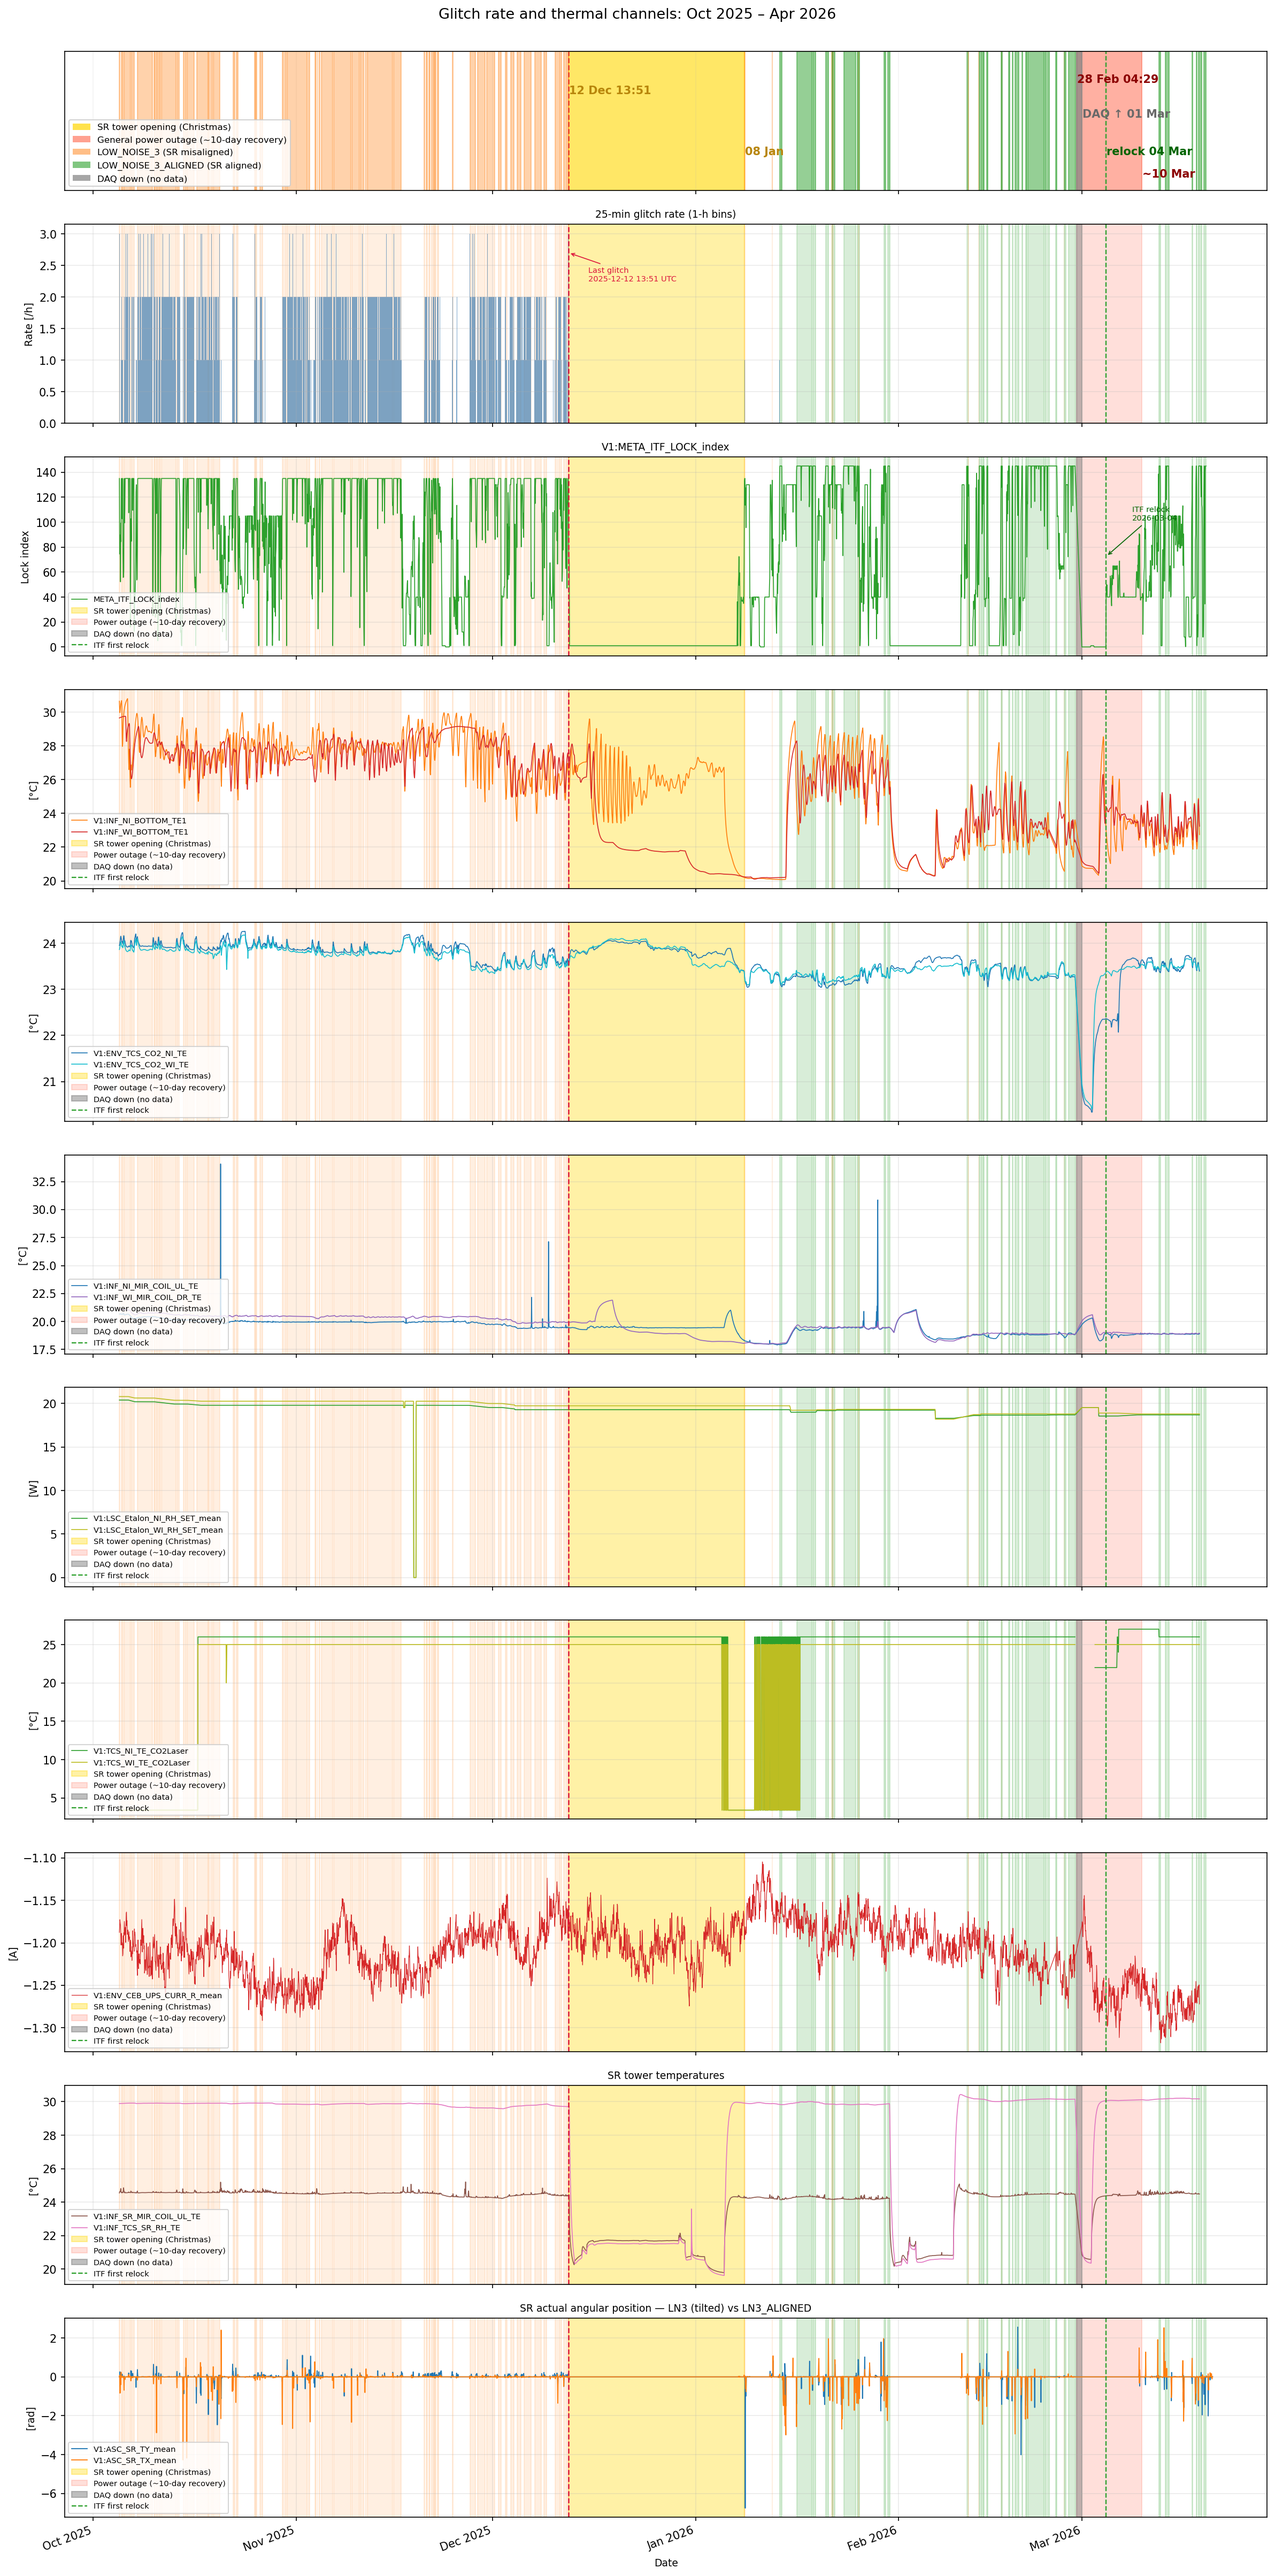
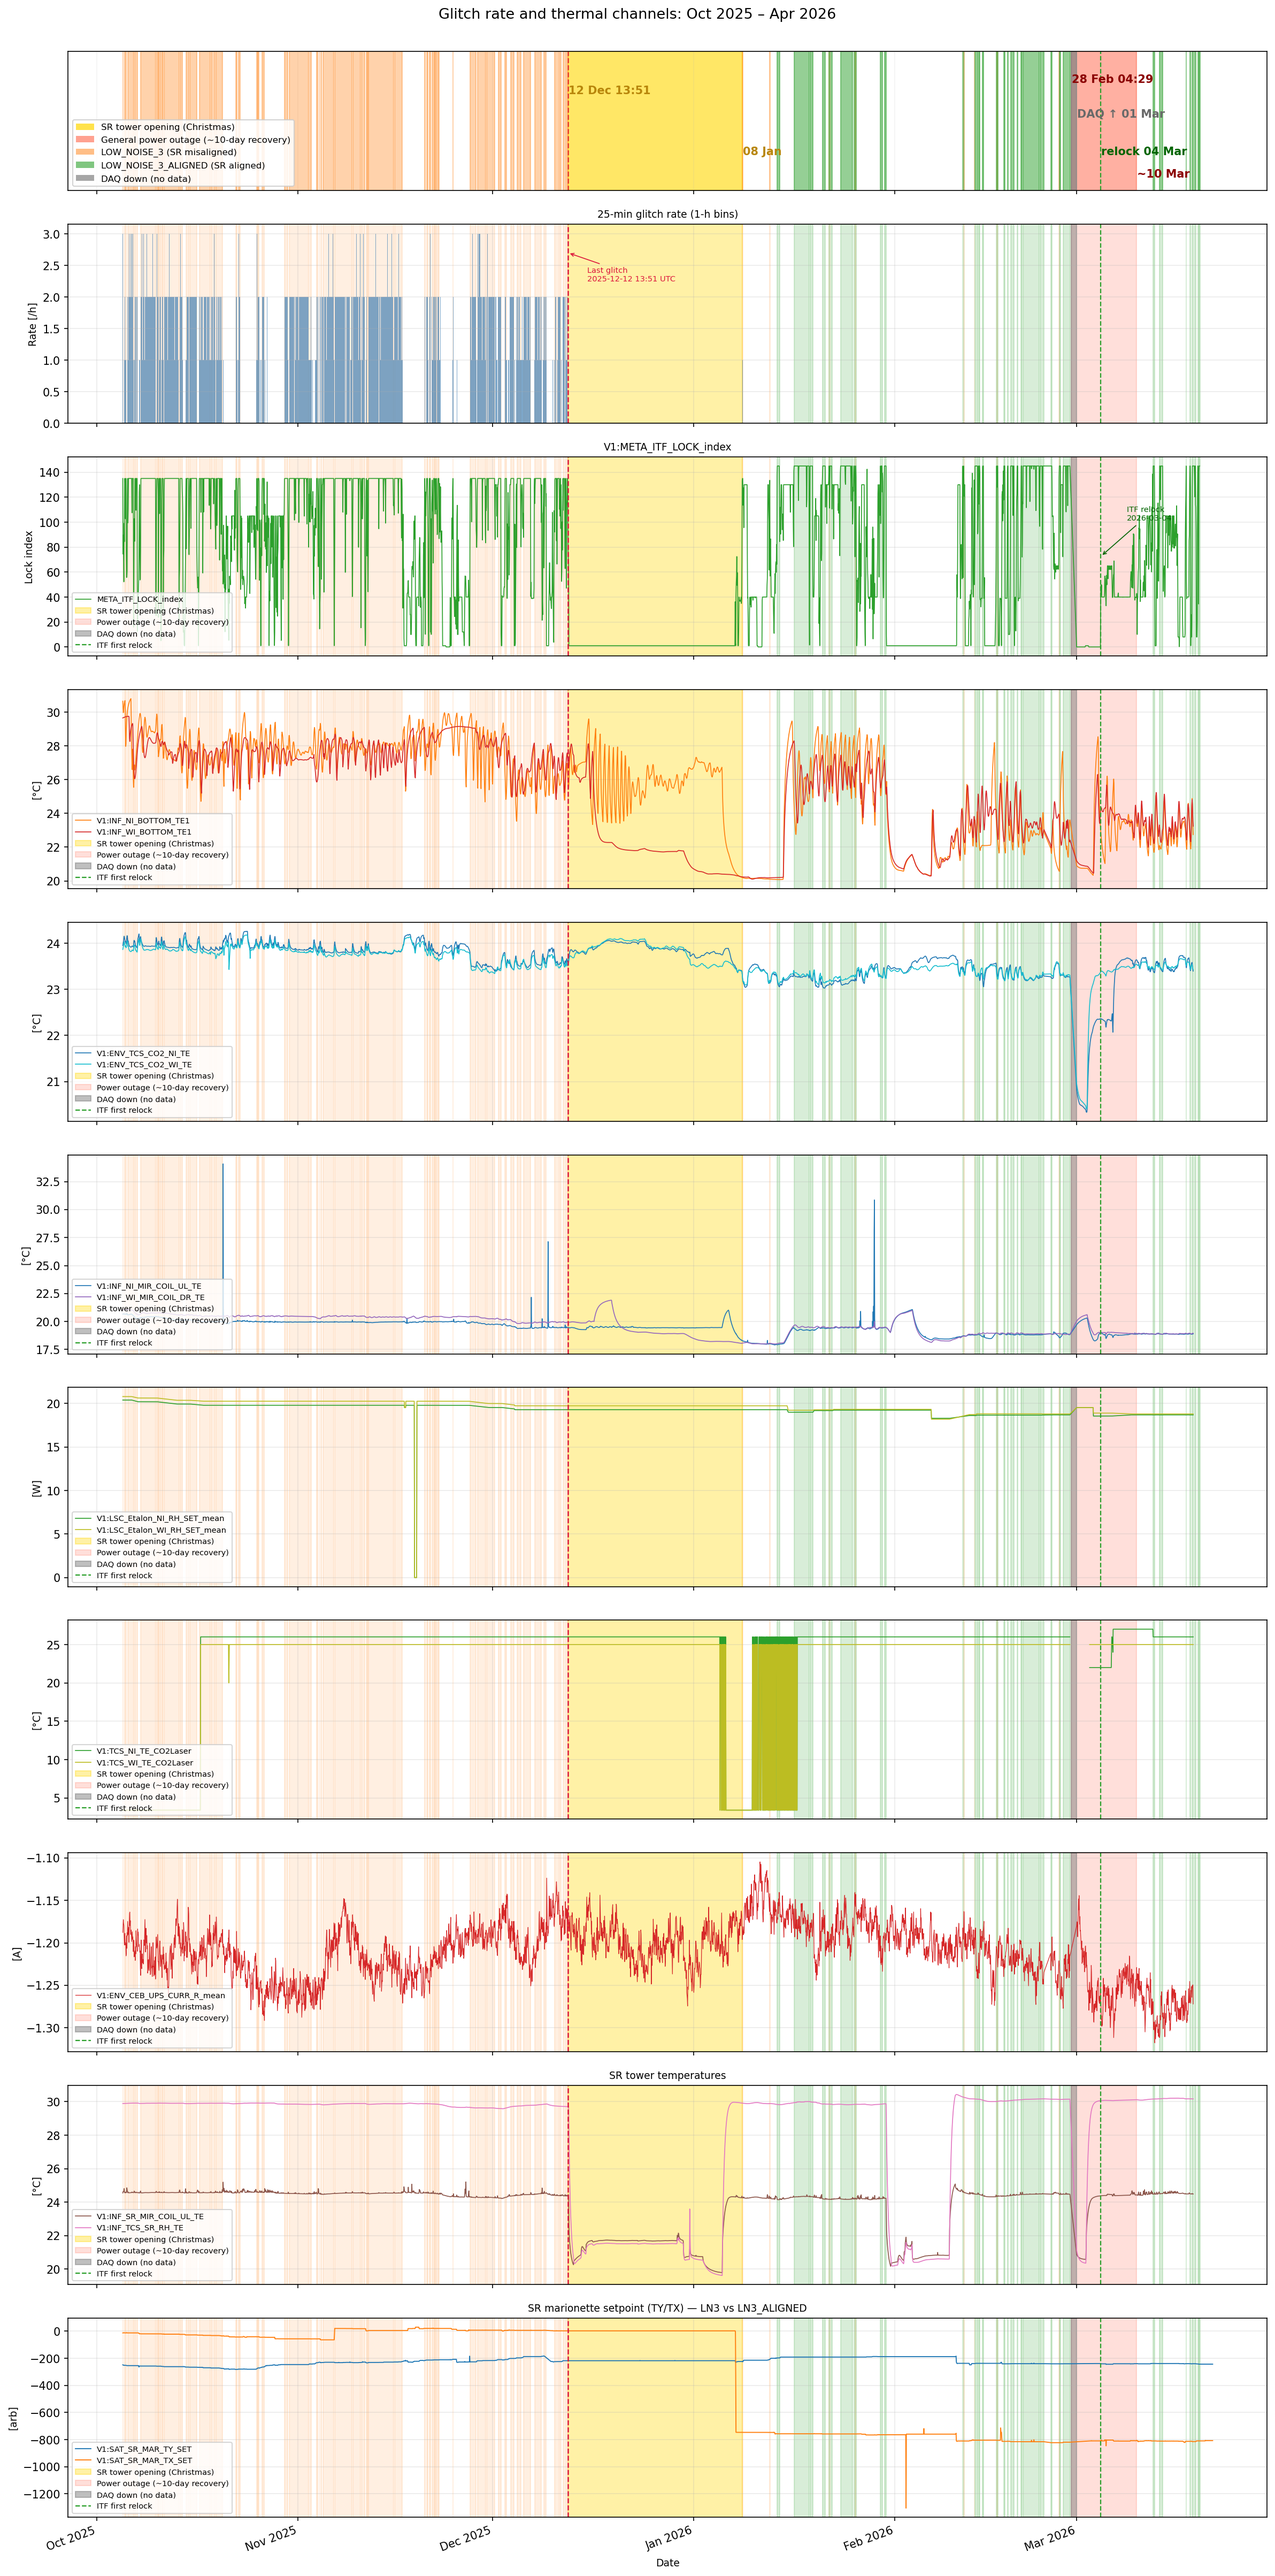
docs: use SAT_SR_MAR_TY/TX_SET for SR alignment panel in disappearance timeseries
Marionette setpoints show clear LN3→LN3_ALIGNED step at Christmas shutdown:
TX: -13 → -787 arb (-774 shift), TY: -238 → -218 arb (+20 shift).
Previous channels (ASC_SR_TY/TX_mean, DOF_CORR) showed no step — they are
control-loop signals kept near zero regardless of mirror absolute position.

Changed region(s): [[0.031, 0.0, 0.9622, 0.9969], [0.031, 0.0935, 0.0621, 0.1558]]

diff --git a/scripts/plot_disappearance_timeseries.py b/scripts/plot_disappearance_timeseries.py
@@ -412,12 +412,12 @@ def plot(binned_csv: str, step4_dir: str, triggers_csv: str,
     ax = axes[10]
     if sr_pos is not None:
         sr_dt = gps_to_dt(sr_pos["gps_bin"].values)
-        if "sr_ty_mean" in sr_pos.columns:
-            ax.plot(sr_dt.values, sr_pos["sr_ty_mean"].values,
-                    lw=0.9, color="tab:blue", label="V1:ASC_SR_TY_mean")
-        if "sr_tx_mean" in sr_pos.columns:
-            ax.plot(sr_dt.values, sr_pos["sr_tx_mean"].values,
-                    lw=0.9, color="tab:orange", label="V1:ASC_SR_TX_mean")
+        if "sr_mar_ty_set" in sr_pos.columns:
+            ax.plot(sr_dt.values, sr_pos["sr_mar_ty_set"].values,
+                    lw=0.9, color="tab:blue", label="V1:SAT_SR_MAR_TY_SET")
+        if "sr_mar_tx_set" in sr_pos.columns:
+            ax.plot(sr_dt.values, sr_pos["sr_mar_tx_set"].values,
+                    lw=0.9, color="tab:orange", label="V1:SAT_SR_MAR_TX_SET")
     else:
         # fallback: ERR channels from binned data
         for col, lab, color in [
@@ -426,8 +426,8 @@ def plot(binned_csv: str, step4_dir: str, triggers_csv: str,
             if col in df.columns:
                 ax.plot(dt.values, df[col].values, lw=0.8, label=lab, color=color)
     decorate(ax)
-    ax.set_ylabel("[rad]", fontsize=9)
-    ax.set_title("SR actual angular position — LN3 (tilted) vs LN3_ALIGNED", fontsize=9)
+    ax.set_ylabel("[arb]", fontsize=9)
+    ax.set_title("SR marionette setpoint (TY/TX) — LN3 vs LN3_ALIGNED", fontsize=9)
     ax.set_xlabel("Date", fontsize=9)
 
     fig.autofmt_xdate(rotation=20)
@@ -446,7 +446,7 @@ def parse_args():
     p.add_argument("--triggers",  required=True)
     p.add_argument("--itf-lock",  default="")
     p.add_argument("--sr-pos",    default="",
-                   help="CSV with gps_bin, sr_ty_mean, sr_tx_mean")
+                   help="CSV with gps_bin, sr_mar_ty_set, sr_mar_tx_set")
     p.add_argument("--output",
                    default="usecases/25-minute-glitch/disappearance_timeseries.png")
     return p.parse_args()
